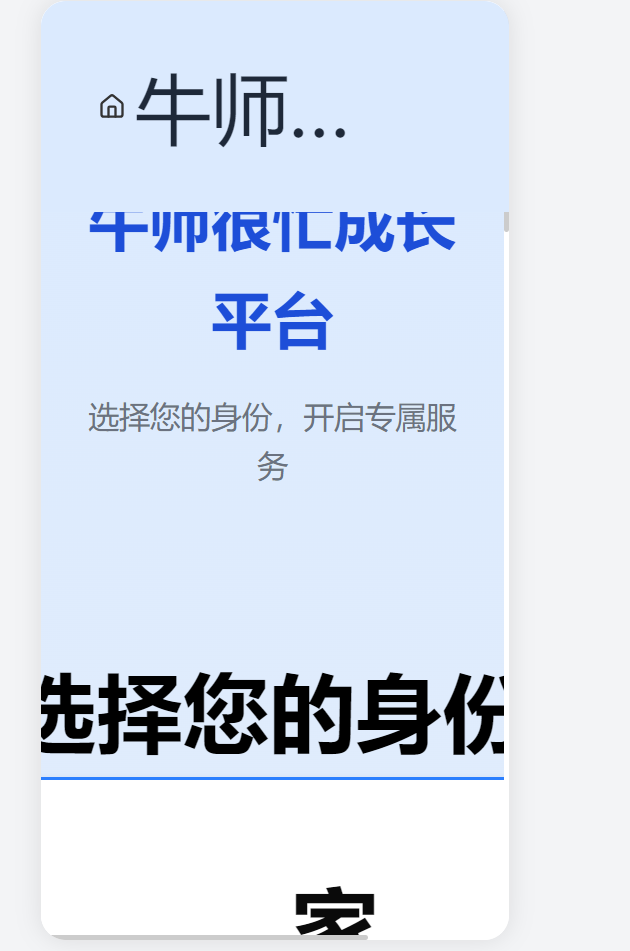
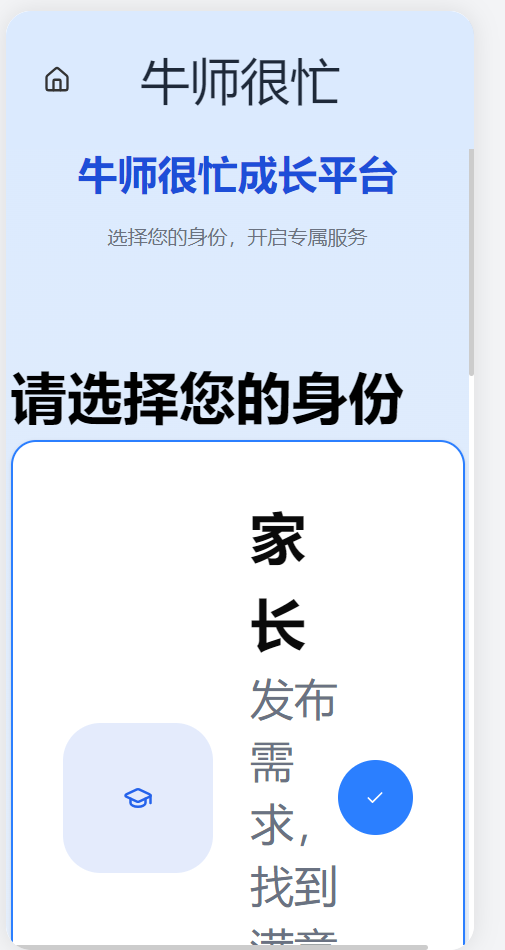
fix(h5): 修复H5端PC宽屏设备检测与字体缩放问题
- 移除 `html { font-size: 4vw !important; }` 避免PC宽屏字体过大
- 实现 `isPCDevice()` 函数通过触摸点、UA、pointer媒体查询综合判断PC设备
- 使用 `body.is-pc-device` 类名控制PC样式
- 在PC设备上通过JS覆盖Taro内联脚本设置的根字体大小（16px）
- 移除未使用的 lastIsPC 变量，通过验证"

diff --git a/src/presets/h5-styles.ts b/src/presets/h5-styles.ts
@@ -125,11 +125,11 @@ const PC_WIDESCREEN_STYLES = `
     align-items: center !important;
     min-height: 100vh !important;
   }
-}
 
-/* PC 宽屏下固定字体大小，避免 4vw 在大屏幕上过大 */
-@media (min-width: 769px) {
-  body.is-pc-device {
+  /* PC 宽屏下限制根字体大小，避免 Taro 内联脚本计算出的值过大 */
+  html.is-pc-device,
+  body.is-pc-device,
+  body.is-pc-device html {
     font-size: 16px !important;
   }
 }
@@ -245,12 +245,28 @@ function setupDeviceDetection() {
   const checkDevice = () => {
     const isPC = isPCDevice();
     document.body.classList.toggle('is-pc-device', isPC);
+
+    // PC 设备上，强制覆盖 Taro 内联脚本设置的根字体大小
+    // Taro 脚本会根据屏幕宽度计算: 40 * width / 750
+    // 在 PC 宽屏上这个值会非常大，导致页面元素过大
+    if (isPC && window.innerWidth >= 769) {
+      // 直接设置 html 元素的 style，覆盖 Taro 的内联脚本
+      // 使用 setTimeout 确保在 Taro 脚本执行后再覆盖
+      setTimeout(() => {
+        const html = document.documentElement;
+        html.style.cssText = html.style.cssText.replace(/font-size:[^;]+;/g, '');
+        html.style.setProperty('font-size', '16px', 'important');
+      }, 0);
+    }
   };
 
   checkDevice();
 
   // 监听窗口大小变化（如旋转屏幕）
-  window.addEventListener('resize', checkDevice);
+  // Taro 脚本也会在 resize 时重新计算，我们需要在其之后覆盖
+  window.addEventListener('resize', () => {
+    checkDevice();
+  });
 }
 
 export function injectH5Styles() {
